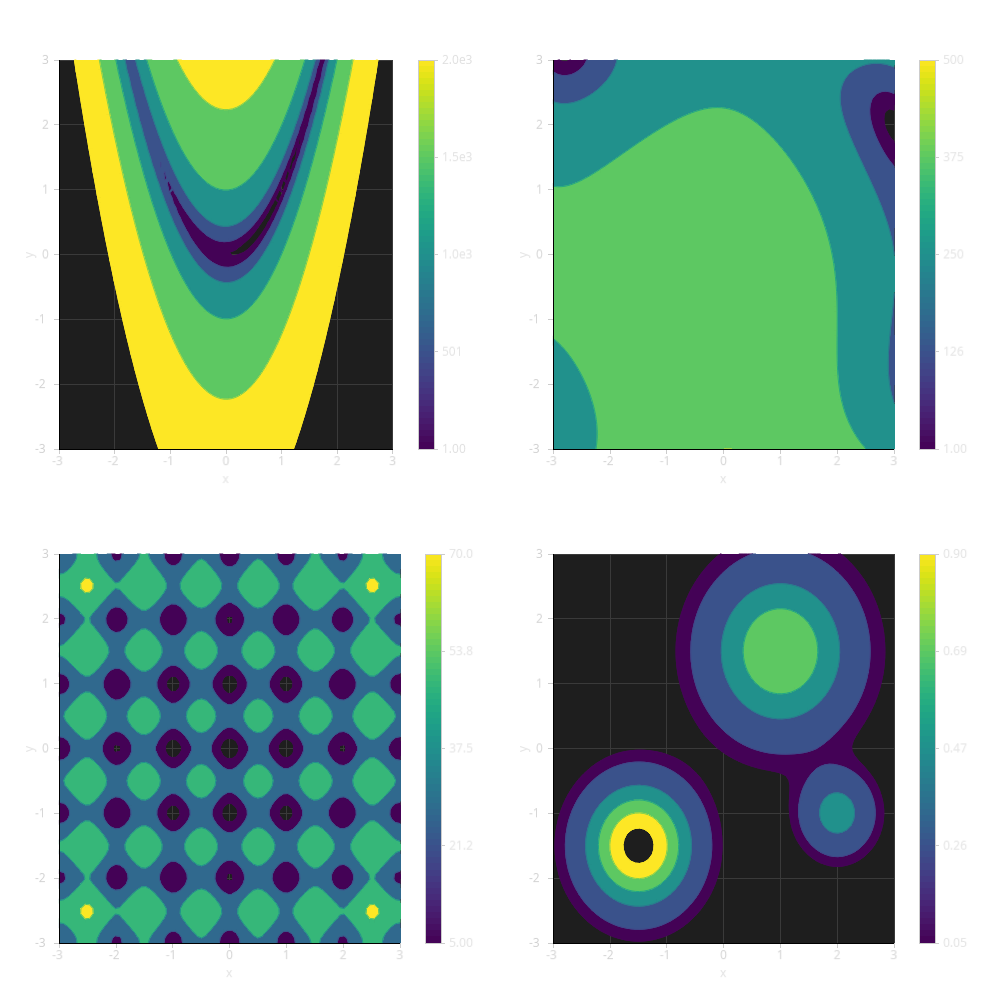
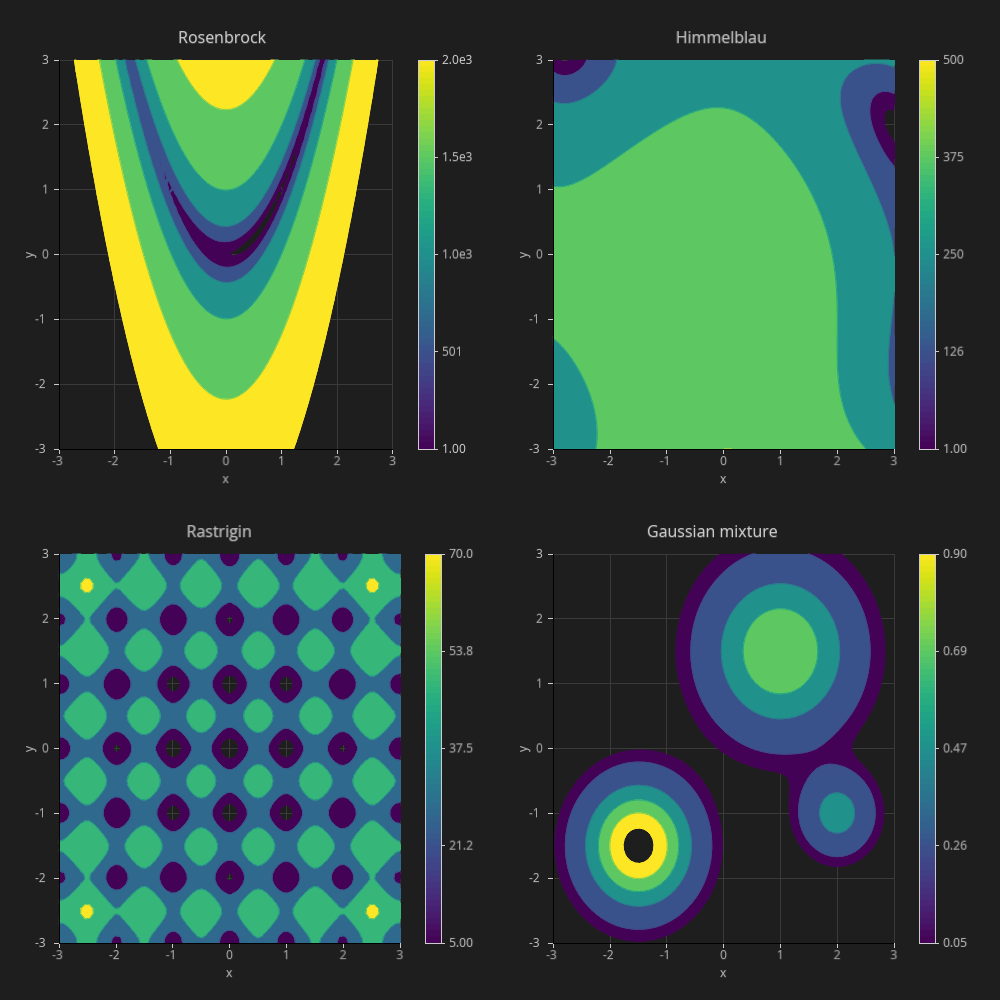
fix(examples): L.15 — pass theme to MultiPanelFigure for dark composites
contour_fields.rs is the only multipanel example with a dark variant
(contour_fields_dark.png). Each panel called Figure::theme(theme_from_env())
but the MultiPanelFigure itself defaulted to Theme::default() = LIGHT, so
the canvas background stayed white in dark-mode renders — visible as a
white frame around the dark contour panels.

Fix: chain .theme(theme_from_env()) onto the MultiPanelFigure builder.
Regenerated contour_fields_dark.png reflects the dark canvas.

The other multipanel examples (bollinger_candlestick, distribution_dashboard,
reciprocal_space) don't ship dark variants; their MultiPanelFigure layout is
unchanged.

Closes starsight-3bp.10.15.

diff --git a/examples/scientific/contour_fields.rs b/examples/scientific/contour_fields.rs
@@ -60,6 +60,7 @@ fn contour_panel(
 
 fn main() -> Result<()> {
     let mp = MultiPanelFigure::new(1000, 1000, 2, 2)
+        .theme(theme_from_env())
         .padding(12.0)
         .add(contour_panel(
             "Rosenbrock",